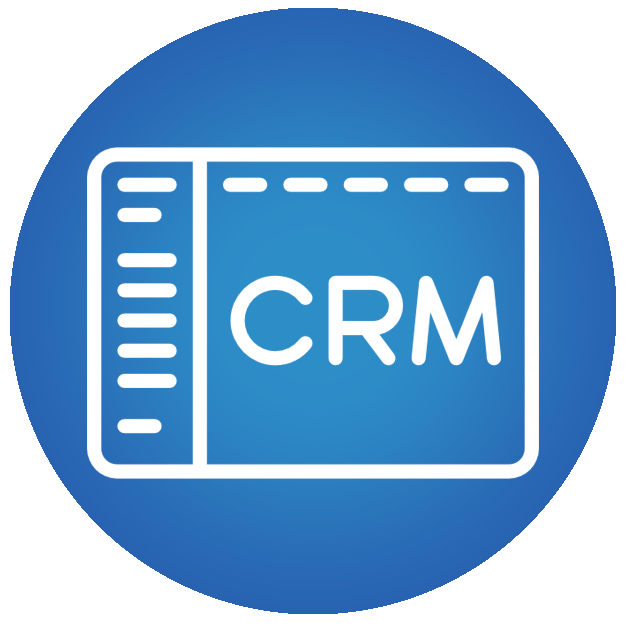
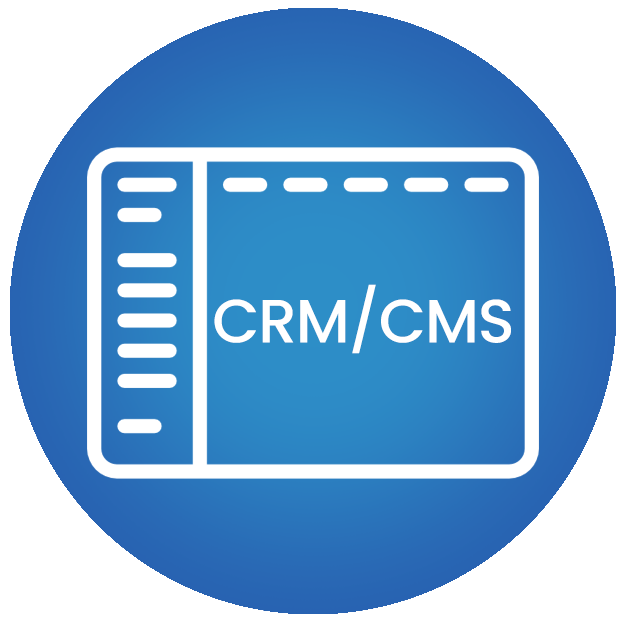
updated images

Changed region(s): [[0.3339, 0.4249, 0.8195, 0.607]]

diff --git a/src/app/about-us/about-us.component.html b/src/app/about-us/about-us.component.html
@@ -39,7 +39,8 @@
             </div>
             <div style="text-align: center;">
               <p class="paragraph-content">
-                We make billing System for your business Strengthen your cash flow, speed up the billing process and minimize the errors in billing process.
+                We make billing System for your business Strengthen your cash flow, speed up the billing process and
+                minimize the errors in billing process.
               </p>
             </div>
           </div>
@@ -48,17 +49,18 @@
           <div class="about-detail">
             <div class="about_img-container">
               <div class="cms-image">
-                <img src="../../assets/Images/about-us-page/CMS.png" alt="">
+                <img src="../../assets/Images/about-us-page/web-development.png" alt="">
               </div>
             </div>
             <div fxLayout="row" fxLayoutAlign="center">
               <h4 class="heading-content ">
-                CMS System
+                Website Design & Development
               </h4>
             </div>
             <div style="text-align: center;">
               <p class="paragraph-content">
-                We develop custom CMS according to your need. We master development technologies such as PHP, Java or Ruby on Rails for robust developments.
+                We develop website according to your need. We master development technologies such as Angular, React,
+                HTML, CSS, bootstrap for robust developments.
               </p>
             </div>
           </div>
@@ -72,12 +74,14 @@
             </div>
             <div fxLayout="row" fxLayoutAlign="center">
               <h4 class="heading-content">
-                CRM System
+                CRM/CMS Systems
               </h4>
             </div>
             <div style="text-align: center;">
               <p class="paragraph-content">
-                We develop custom CRM according to your need. We master development technologies such as PHP, Java or Ruby on Rails for robust developments.
+                We develop custom CRM and CMS according to your need. We master development technologies such as PHP,
+                Java or
+                Ruby on Rails for robust developments.
 
               </p>
             </div>
@@ -120,7 +124,8 @@
             </div>
             <div style="text-align: center;">
               <p class="paragraph-content">
-                We develop IoT systems according to your requirements for smart homes or industrial needs to connect your devices and make your life much easier.
+                We develop IoT systems according to your requirements for smart homes or industrial needs to connect
+                your devices and make your life much easier.
               </p>
             </div>
           </div>
@@ -139,7 +144,8 @@
             </div>
             <div style="text-align: center;">
               <p class="paragraph-content">
-                We develop Android and IOS application and designed them to solve complex challenges with intuitive interfaces.
+                We develop Android and IOS application and designed them to solve complex challenges with intuitive
+                interfaces.
               </p>
             </div>
           </div>
@@ -153,13 +159,20 @@
       <div class="owners-rich-text w-richtext">
         <h2 class="container-h2"> About Us</h2>
         <p>
-          We create unique, imaginative products and services at INSOURCE SOFTWARE SOLUTIONS that offer comprehensive information and communication solutions. We provide a wide range of services, some of which include web design and development, mobile application development, CMS and CRM development, E-Commerce solutions, business-to-business and business-to-client apps, the creation of IoT systems, and contemporary billing administration systems.
+          We create unique, imaginative products and services at INSOURCE SOFTWARE SOLUTIONS that offer comprehensive
+          information and communication solutions. We provide a wide range of services, some of which include web design
+          and development, mobile application development, CMS and CRM development, E-Commerce solutions,
+          business-to-business and business-to-client apps, the creation of IoT systems, and contemporary billing
+          administration systems.
           <br><br>
-          Development and promotion of cutting-edge information technology for multi-user operation is our overarching goal.
+          Development and promotion of cutting-edge information technology for multi-user operation is our overarching
+          goal.
           <br><br>
-          The corporate principle of INSOURCE SOFTWARE SOLUTIONS aims to provide the highest quality product, complete customer satisfaction, prompt solution delivery, and the greatest quality/price ratio available in the sector.
+          The corporate principle of INSOURCE SOFTWARE SOLUTIONS aims to provide the highest quality product, complete
+          customer satisfaction, prompt solution delivery, and the greatest quality/price ratio available in the sector.
           <br><br>
-          Our aim is on providing a high level of product usability through an upbeat, imaginative, and committed workforce.
+          Our aim is on providing a high level of product usability through an upbeat, imaginative, and committed
+          workforce.
         </p>
       </div>
     </div>

diff --git a/src/app/shared/header/header.component.html b/src/app/shared/header/header.component.html
@@ -15,7 +15,7 @@
     <button mat-flat-button class="menu-buttons" (click)="onContactUsClick()">
       Contact Us
     </button>
-    <button mat-flat-button class="menu-buttons" (click)="onJobAbroadClick()">
+    <button mat-flat-button class="menu-buttons" [disabled]="true" (click)="onJobAbroadClick()">
       Job Abroad
     </button>
   </div>

diff --git a/src/app/shared/header/header.component.scss b/src/app/shared/header/header.component.scss
@@ -21,3 +21,7 @@
   background-color: #00339A;
   color: #fff;
 }
+.menu-buttons:disabled {
+  background-color: #cccccc;
+  color: black;
+}
